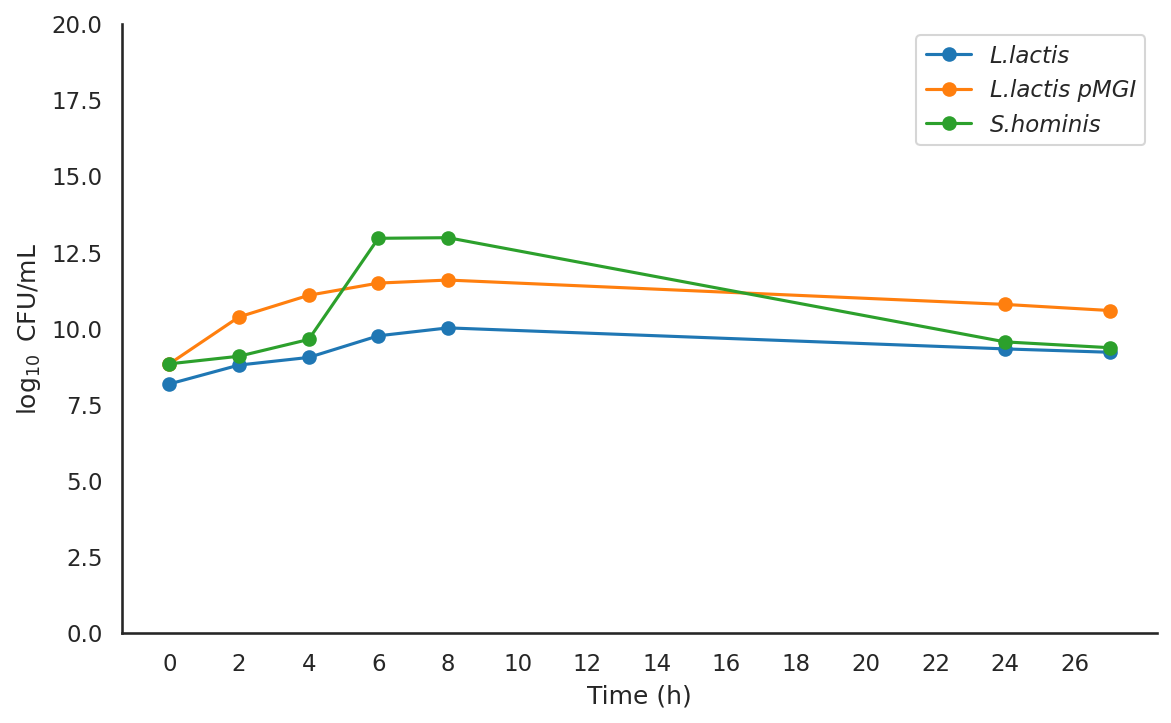
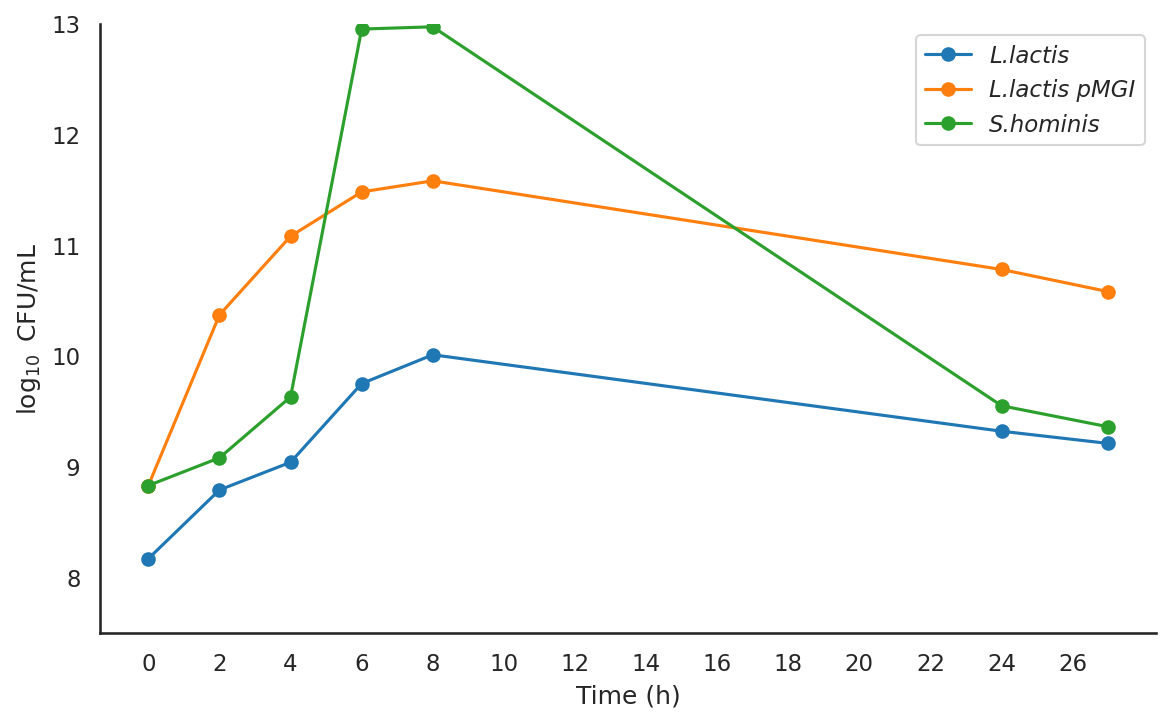
Changed y-axis of CFU plot

diff --git a/CFU/plot_cfu.py b/CFU/plot_cfu.py
@@ -17,7 +17,7 @@ for i, strain in enumerate(strains):
 ax.set_xlabel("Time (h)")
 ax.set_ylabel("$\\log_{10}$ CFU/mL")
 ax.set_xticks(range(0, int(df["Time"].max()) + 1, 2))
-ax.set_ylim(0, 20)
+ax.set_ylim(7.5, 13)
 
 legend = ax.legend()
 for text in legend.get_texts():